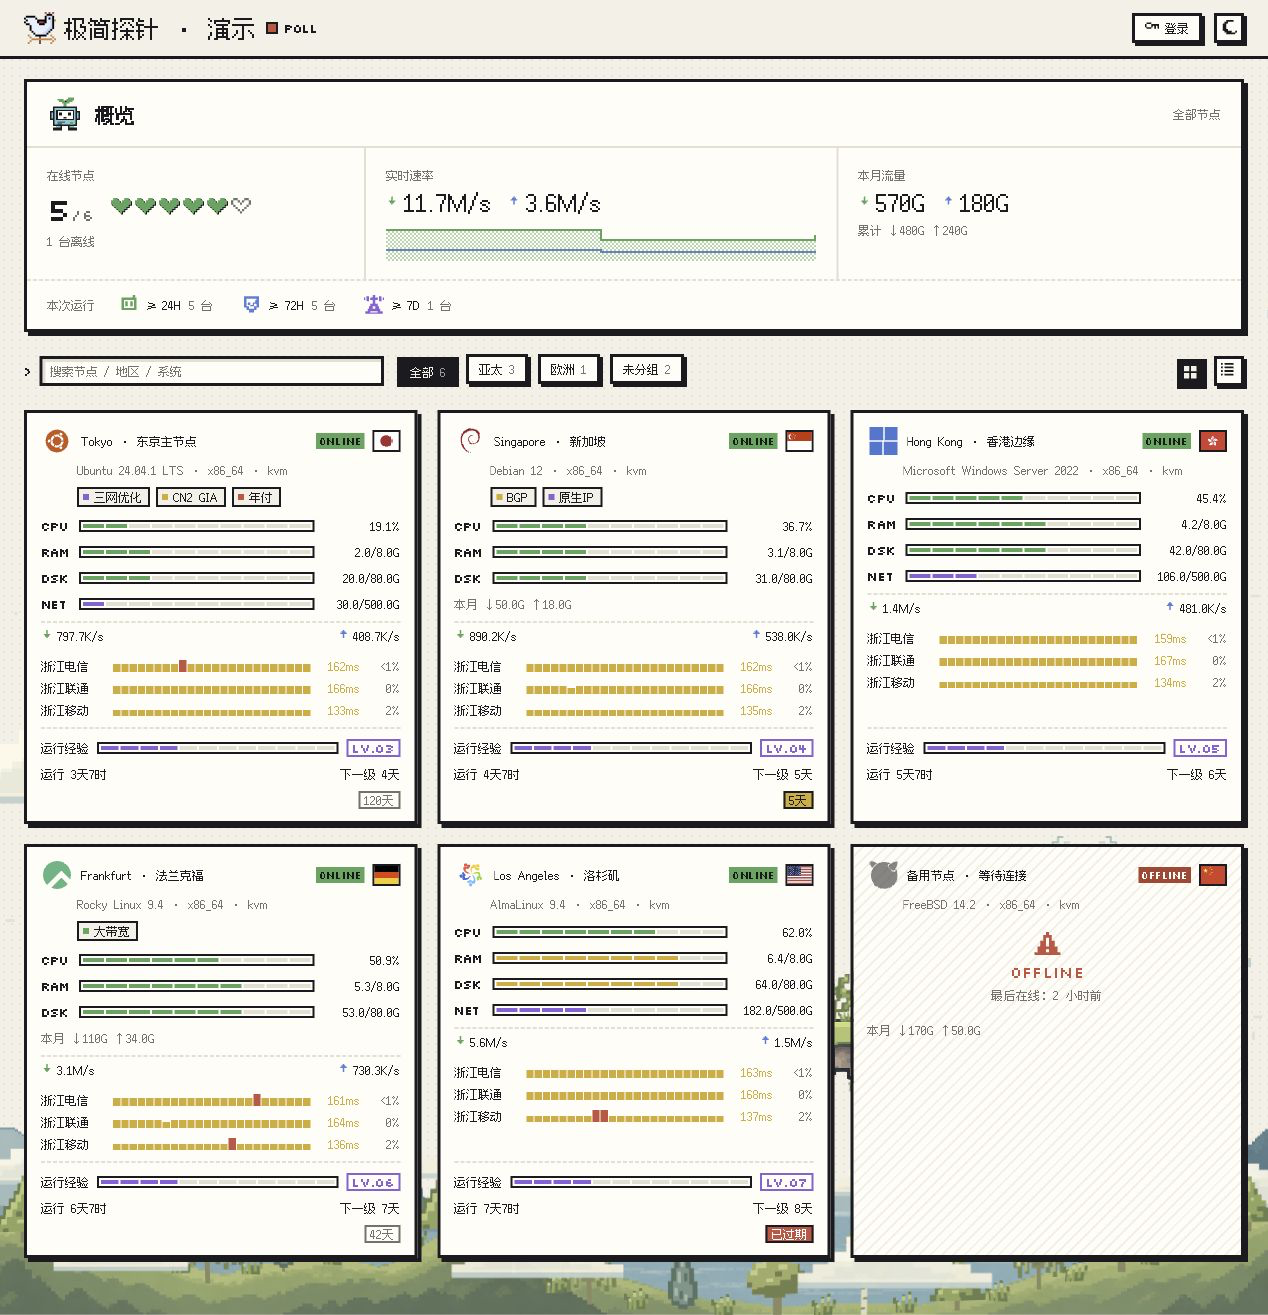
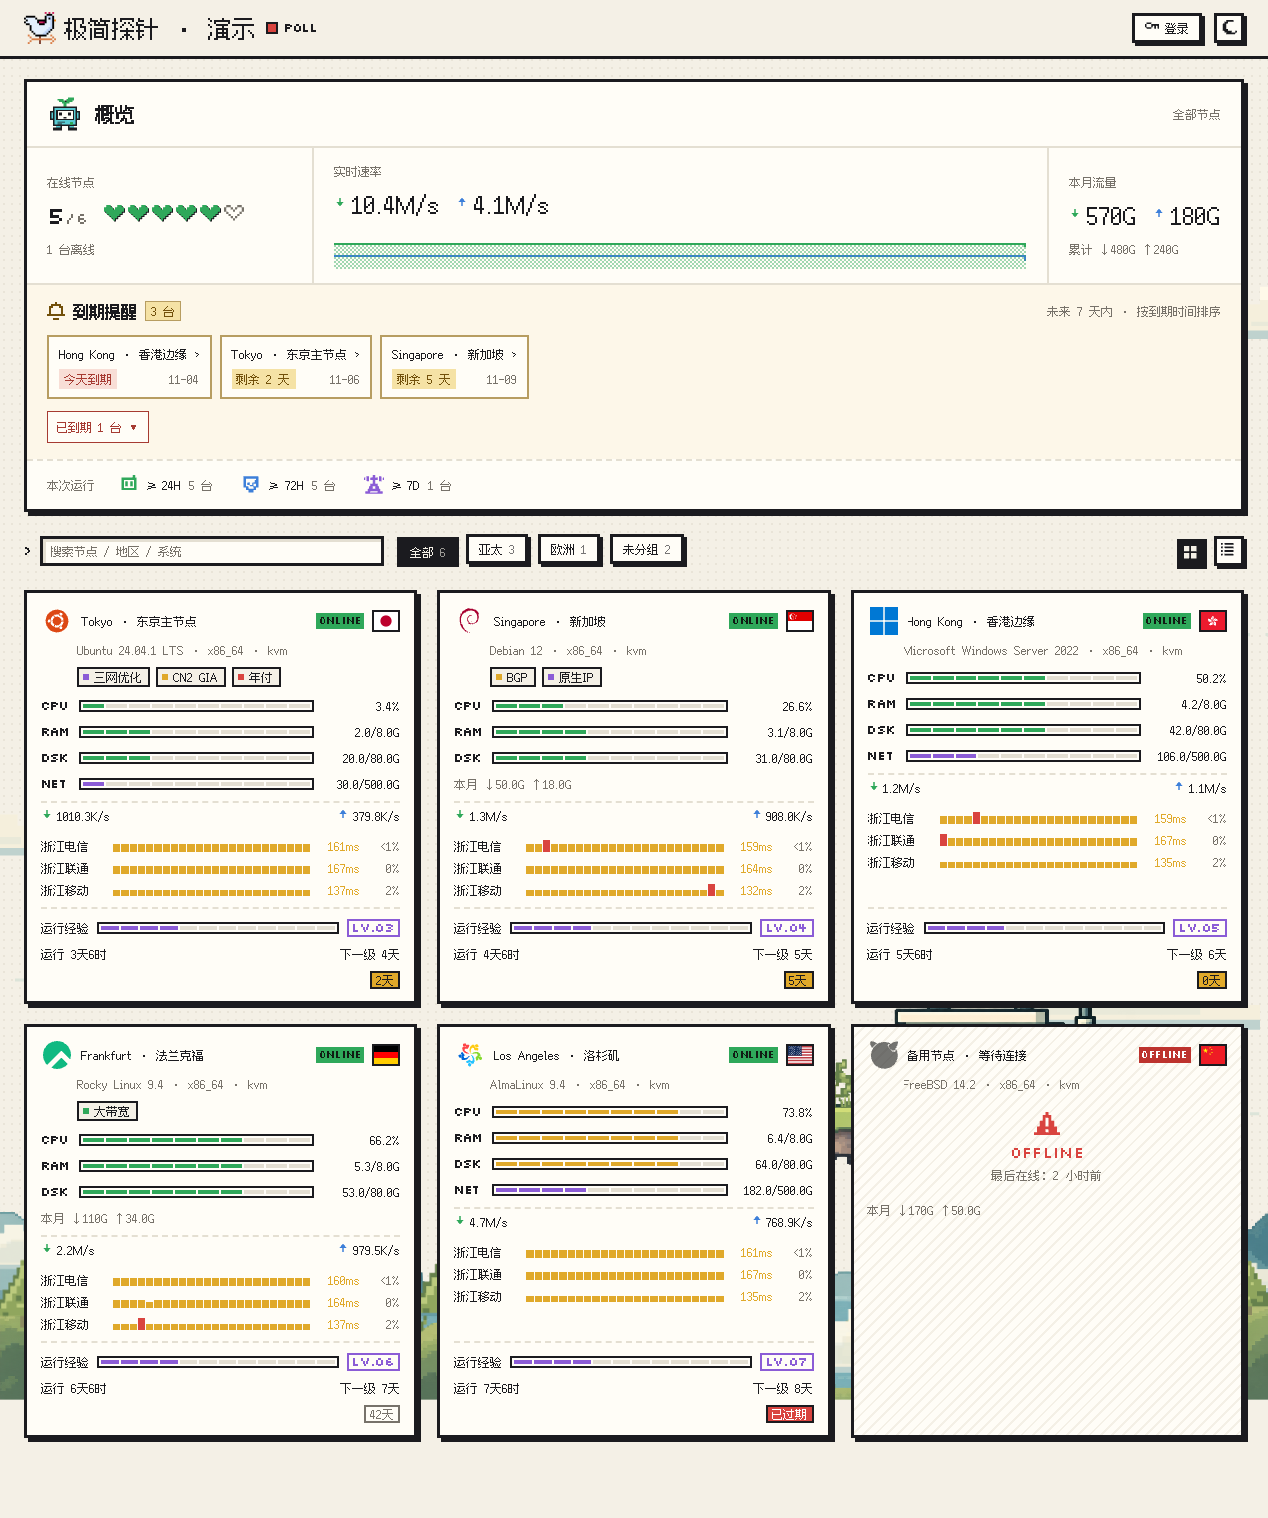
release: 1.4.0

diff --git a/README.md b/README.md
@@ -8,103 +8,21 @@
 
 ## 功能
 
-- **首页**：在线数、实时速率（带 2 分钟像素迷你图）、本月 / 累计流量与运行时长统计整合为概览；搜索框后提供分组筛选；卡片 / 列表两种布局；离线节点置底。
-- **到期提醒**：概览中按到期先后展示未来指定天数内的节点（默认 7 天），包含今天到期；默认显示最近 3 台，可展开全部，已到期节点单独折叠显示。跟随当前分组与隐藏离线设置；关闭提醒或没有符合条件的节点时，整个提醒区域隐藏。
+- **首页**：在线数、实时速率（带 2 分钟像素迷你图）、本月 / 累计流量与运行时长统计整合为概览；三项统计按内容分配宽度、垂直居中；搜索框后提供分组筛选；卡片 / 列表两种布局；离线节点置底。
+- **到期提醒**：概览中按到期先后展示未来指定天数内的节点（默认 7 天），包含今天到期；提醒卡片按内容宽度排列、自动换行，减少留白。默认显示最近 3 台，可展开全部，已到期节点单独折叠显示。跟随当前分组与隐藏离线设置；关闭提醒或没有符合条件的节点时，整个提醒区域隐藏。
 - **节点卡片**：左上角按操作系统名称匹配像素 Logo（覆盖 21 种系统图标，无法识别时显示通用服务器图标，离线时变灰），右上角 24×18 像素国旗；CPU / 内存 / 磁盘 / 流量配额方块条、实时上下行、在线时长、到期天数（使用 Hub 下发的 `expires_in`），可选显示价格。
 - **备注标签**：公开备注（Hub 1.3.2 起的 `public_remark`）对所有访客可见；私有备注（`remark`）仅登录管理员后显示，与公开备注同时呈现，并使用虚线边框区分，悬停可查看备注类型。卡片、列表和详情页均支持；按 `;`、`；` 或换行拆分，同一范围内去重，同名标签颜色固定。私有备注只读取 Hub 向管理员下发的字段。
 - **节点延迟**：卡片显示前几条探测线路的最新延迟、近 24 次采样的像素柱状条（绿 <100ms、黄 <200ms、红 ≥200ms 或超时）与 1 小时丢包率；列表视图增加 PING 列。
 - **节点详情** `/node/{id}`：实时负载（CPU / 内存 / 交换 / 磁盘 / 流量配额 / 速率）、系统信息、历史图（CPU、内存与 Swap、网络、磁盘、TCP / UDP 连接数、进程数、多线路 Ping 与丢包），canvas 逐像素绘制，悬停显示读数。时间范围按 Hub 的保留天数生成（1H / 6H / 24H / 7D / 30D / 90D / 全部）；CPU 与网速另以淡色画出区间峰值。Swap、连接数与进程数需要 Hub 1.4.1+，旧版 Hub 不显示这几项。
+- **线路历史图**：PING 图例单击显示或隐藏线路，双击只看该线路，ALL 恢复全部；丢包率曲线与 PING 共用时间范围和线路筛选，纵轴固定为 0–100%。缺失的采样值保留为空缺，没有丢包率历史数据时显示提示。
 - **实时数据**：优先使用 `/api/ws?gzip` 压缩推送（同时兼容文本帧），断开或 Hub 推送已满时退回 5 秒轮询，并以 5 秒起、最长 1 分钟的间隔重连。页面切到后台时断开推送、停止轮询；回到前台立即刷新并重连。
-- **原创游戏元素**：像素守卫、在线节点爱心、运行经验条与 24H / 72H / 7D 成就；等级按本次系统运行的完整天数计算，每 24 小时升一级，重启后重新累计。成就只统计当前分组内在线且已上报指标的节点，不表示历史可用率。
+- **原创游戏元素**：像素守卫、在线节点爱心、运行经验条与 24H / 72H / 7D 成就；等级按本次系统运行的完整天数计算，每 24 小时升一级，重启后重新累计。爱心按可用宽度最多排列三行，放不下的节点以“+数量”显示；运行成就的悬停提示立即显示，也支持键盘聚焦。成就只统计当前分组内在线且已上报指标的节点，不表示历史可用率。
 - **像素世界背景**：固定在浏览器视口的云端机房浮岛、远景小岛与分层山景，云层分速缓移、植物与垂藤错相摆动、数据光点沿线路移动、天线与状态灯循环闪烁；随窗口宽度缩放，手机端简化构图，亮暗配色均适配。装饰不遮挡数据或响应点击，系统开启「减少动态效果」时暂停动画。插画以透明 WebP 随主题分发，无外部图片请求。
 - **站点 Logo**：内置风向鸡图标，默认跟随 Hub 后台设置；主题可单独配置顶栏 Logo 地址。
 - **价格显示**：节点卡片与详情页共用显示开关，可进一步隐藏未登录访客的价格与付费周期。
 - **字体**：Silkscreen（英文标题）+ 缝合像素字体 Fusion Pixel 12px（中文），均随主题包分发，不请求第三方服务。
 
-## 1.3.9 更新内容
-
-- 节点详情页的 PING 图表支持按线路筛选：单击图例显示或隐藏该线路，双击只看这一条线路，再次双击或点击 ALL 恢复全部线路。
-- 纵轴最大值只按当前显示的线路计算；每条线路的颜色固定，筛选时不会变色。
-- 筛选状态在每分钟自动刷新和切换时间范围后都会保留。
-
-## 1.3.8 更新内容
-
-- 顶部概览新增到期提醒：展示节点名称、剩余天数及到期日期，按到期时间排序，默认显示最近 3 台，可展开全部并点击进入节点详情。
-- 后台首页设置新增「到期提醒天数」，默认提前 7 天，支持 0–365 天；设为 0 关闭提醒。
-- 关闭提醒或当前分组没有符合条件的到期节点时，整个提醒区域隐藏，不保留占位；已到期节点单独折叠显示。
-- 适配亮色、暗色及手机布局，支持旧版 Hub 的到期日期计算，并补充日期边界、配置与隐藏逻辑回归测试。
-
-## 1.3.7 更新内容
-
-- 页面底部增加 48–80px 的自适应留白，最后一排卡片不再紧贴浏览器底边；手机端额外兼顾底部安全区域。
-- 更新亮色与暗色首页预览图，展示调整后的页面间距。
-
-## 1.3.6 更新内容
-
-- 重绘云端机房浮岛与山谷背景，固定在浏览器视口，不随页面滚动；随浏览器宽度缩放，并适配手机和明暗配色。
-- 云层、草木与垂藤拆为独立动画层，17 组云朵分速飘动、73 组植被错相摆动；山谷混合松树、橡树、白桦、柏树与垂柳五种树形。
-- 主题设置新增「背景动态效果」开关，可切换动态或静态背景，配置导入与导出保留该设置；尊重系统「减少动态效果」偏好。
-- 移除页面底部署名及主题链接，更新亮色与暗色首页预览图。
-
-## 1.3.5 更新内容
-
-- 列表支持点击各列表头排序，再次点击切换升降序，并显示排序方向；名称采用自然排序，缺失数据置底。网络列按上下行速率合计，PING 列按当前显示线路的有效最新延迟均值排序。
-- 卡片延迟柱状图随可用宽度展开，消除宽卡片中的大块空白。
-- 悬停柱条立即显示像素风格浮层，展示线路名称和对应延迟，超时样本显示“超时”；支持明暗主题、窗口边缘避让和 Escape 关闭。
-- 当前悬停柱条增加像素闪亮动画及高亮边框，同一行其他柱条淡化；尊重系统减少动态效果设置。
-- 已核对极简探针 Hub 1.5.0 的发布说明和源码差异：公开接口不变，主题无需额外适配；安装包满足新版解压限制。
-
-## 1.3.4 更新内容
-
-- 支持管理员同时查看公开备注和私有备注，卡片、列表与详情页统一展示；私有备注使用虚线边框区分，悬停查看类型，未登录访客只显示公开备注。
-- 备注支持中文分号、英文分号和换行拆分，同一范围内去重；补充登录状态变化、旧版字段与文本转义测试。
-- 更新亮色首页预览图，恢复正常字重的字体渲染。
-
-## 1.3.3 更新内容
-
-- 将顶部欢迎区与概览合并，移除“像素守卫”标题和欢迎语，运行时长统计收至概览底部；分组按钮移至搜索框后，手机端自动换行。
-- 新增「对未登录访客隐藏价格与付费周期」，与「显示价格」联动，统一控制节点卡片和详情页；关闭「显示价格」时对所有人隐藏。
-- 顶栏 Logo 默认跟随 Hub 后台的站点图标，并复用带缓存版本号的页签图标地址，刷新页面后同步生效。
-- 新增主题「自定义 Logo 地址」以覆盖顶栏 Logo；加载失败时依次回退到 Hub 站点图标和内置图标。
-- 默认 Logo、页签和主屏幕图标更换为风向鸡；更新亮色和暗色首页预览图。
-
-## 1.3.2 更新内容：适配极简探针 1.4.1
-
-- 节点详情的内存图加回 Swap 曲线，新增 CONNECTIONS（TCP / UDP）与 PROCESSES 历史图，数据来自 Hub 1.4.1 起 `/api/nodes/{id}/metrics` 的 `swap_used`、`tcp`、`udp`、`procs`；旧版 Hub 没有这些字段时不显示。
-- 推送改连 `/api/ws?gzip`，接收 gzip 二进制帧，文本帧照常处理；浏览器不支持 `DecompressionStream` 时仍连文本推送。
-- Hub 匿名推送满 1000 条回 503 时，页面靠轮询保持更新，重连间隔逐次加倍至 1 分钟，不再每 5 秒重试。
-- 页面隐藏时断开推送、停止轮询并中止在途请求，回到前台立即拉取节点列表并重连；iOS 主屏幕 Web App 另以 `pageshow` / `focus` 兜底。详情页隐藏时也不再每分钟刷新历史图。连续失败 3 次才提示连接错误，避免刚恢复时网络未就绪而闪现报错。
-- 离线时长改用 Hub 按自身时钟计算的 `last_seen_ago`（Hub 1.4.0+），访客电脑时钟不准时不再显示错误时长；旧版 Hub 仍按 `last_seen` 计算。
-- 新增 180×180 不透明的 `/apple-touch-icon.png`，用于 iOS 书签与主屏幕；站长在 Hub 设置了站点图标时由 Hub 替换。
-- 读写 `localStorage` 均已包裹 try/catch，浏览器禁用站点数据时不会白屏。
-
-## 1.3.1 更新内容
-
-- 修复「显示的延迟线路」留空时未沿用后台线路排序的问题，卡片和列表按后台顺序显示前几条线路；填写名称时仍按填写顺序显示。
-- 节点详情的 Ping 曲线、图例与配色顺序同步沿用后台线路排序。
-- 新增延迟线路排序回归验证，演示数据覆盖后台顺序与线路 ID 顺序不同的情况。
-
-## 1.3.0 更新内容
-
-- 新增原创像素守卫与在线节点爱心，站点图标同步改为守卫。
-- 新增运行经验条、等级与 24H / 72H / 7D 成就，按本次系统启动后的运行时长统计，重启后重新累计。
-- 新增像素云朵、数据包线路、底部地形与宽屏机房浮岛；修复暗色模式下背景插画仍使用亮色的问题。
-- 更新亮色与暗色首页预览图。
-
-## 适配极简探针 1.3.2
-
-- 时间范围按 `/api/me` 的 `history_days` 生成，超过 7 天的窗口读 Hub 的小时汇总，并在范围按钮旁注明每点覆盖的时长；旧版 Hub 没有该字段时按 7 天。
-- CPU 图画出 `cpu_max`，网速图画出 `net_rx_max` / `net_tx_max`（Hub 1.3.1+），以淡色显示在均值后方，悬停同时显示均值与峰值；Hub 不提供时不画。
-- 备注标签改读公开备注 `public_remark`，普通访客也能看到。
-- 价格按 Hub 的中文写法显示（如 `US$5.00 · 月付`、`NT$12.50 · 18 个月付`），支持任意三字母货币与 `<n>m` 付款周期；旧版 Hub 存下的非法货币代码不再导致报错。
-- 跨多天的坐标轴只显示日期。
-
-## 1.1.0 更新内容
-
-- 卡片国家代码改为像素国旗（12×9 栅格化），无对应国旗时仍显示代码。
-- 节点备注以标签形式展示，支持用分号分隔多个标签。
-- 卡片中流量配额条移到磁盘下方；详情页新增同样的流量配额条，原速率行改名为 SPD。
-- 站点图标与顶栏 Logo 换为像素小鸡。
+版本更新记录请查看 [GitHub Releases](https://github.com/Gongsc/Theme-Pixel/releases)。
 
 ## 站点设置
 
@@ -154,6 +72,8 @@ npm run package   # 生成 release/theme.tar.gz
 ```
 
 设置 `MONITOR_HUB=https://hub.example.com` 可代理到已开启公开状态页的现成 Hub。没有 Hub 时运行 `python3 scripts/demo-server.py` 提供按 Hub 1.3.2 行为模拟的演示数据（`PORT=9922` 可换端口，同时设置 `MONITOR_HUB=http://127.0.0.1:9922`）。
+
+更新说明统一维护在对应的 GitHub Release 中，README 仅保留当前功能与使用说明。
 
 发布新版本：把 `theme.json`、`package.json`、`package-lock.json` 中的版本号改为同一版本，推送 `x.y.z` 格式的 tag，GitHub Actions 会构建并创建带 `theme.tar.gz` 的 Release。
 
